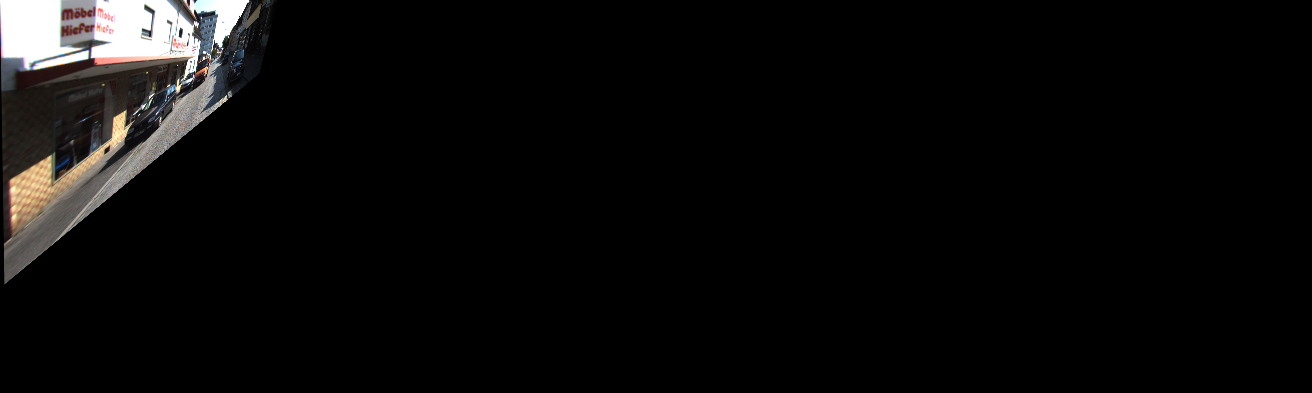
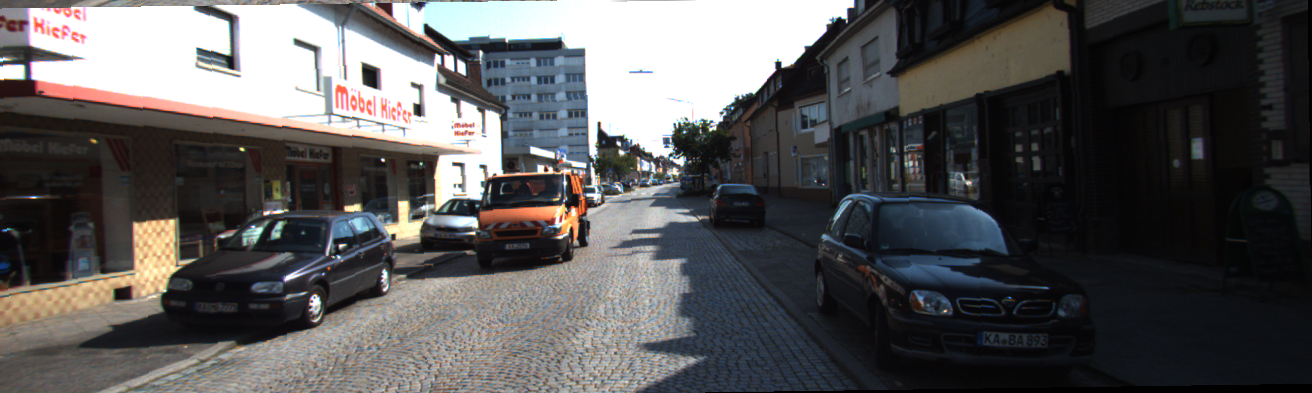
finish backward warping

diff --git a/workspace/libs/midterm.py b/workspace/libs/midterm.py
@@ -2,7 +2,9 @@ import numpy as np
 import numpy.linalg as npl
 import cv2
 import sys
+from PIL import Image
 class VVS:
+
     def __init__(self, cfg):
         self.cfg = cfg
         self.opencv = False
@@ -96,7 +98,6 @@ class VVS:
         t = - R.T @ t_tilde # R.T = npl.inv(R)
 
         return R, t
-        
 
     def estimate_Rrect(self, t):
         e1 = t / npl.norm(t)
@@ -108,28 +109,48 @@ class VVS:
         print('e1,e2,e3 shapes:', e1.shape, e2.shape, e3.shape)
         print('e1,e2,e3 :', e1, e2, e3)
         Rrect = np.array([e1, e2, e3])
+        print('det(Rrect): ', npl.det(Rrect))
         return Rrect
         
-    def rectify_image(self, R, Rrect, left_imgs, right_imgs):
-        #TODO: calculate R1, R2 from R, Rrect
-        R1 = self.cfg.R_rect_left_color
-        R2 = self.cfg.R_rect_right_color
-        #######
-        h1, w1 = left_imgs[0].shape[:2]
-        h2, w2 = right_imgs[0].shape[:2]
+    def backward_warping(self, R, K, img):
+        h, w = img.shape[:2]
+        rect_img = np.zeros((h, w, 3), dtype=np.uint8)
+        Warp = K @ npl.inv(R) @ npl.inv(K)
+        p = np.zeros(3).astype(int)
+        for i in range(h): #393
+            for j in range(w): #1312
+                p = Warp @ np.array([j, i, 1])
+                p = p.astype(int)
+                try: 
+                    # print(f'i:{i} j:{j} p[0]:{p[0]} p[1]:{p[1]}')
+                    rect_img[i, j, :] = img[p[1], p[0], :]
+                except IndexError as e:
+                    pass
+                    # print(e)
+        return rect_img
 
-        length = len(left_imgs)
-        rect_left_imgs = [None] * length
-        rect_right_imgs = [None] * length
-        center = (w1/2, h1/2)
-        rotate_matrix = cv2.getRotationMatrix2D(center=center, angle=45, scale=1)
-        print(rotate_matrix.shape)
-        print('R1', R1.shape)
- 
-        for i in range(length):
-            rect_left_imgs[i] = cv2.warpPerspective(src=left_imgs[i], M=R1, dsize=(w1, h1))
-            rect_right_imgs[i] = cv2.warpPerspective(src=right_imgs[i],M=R2,dsize=(w2, h2))
-            # rect_left_imgs[i] = R1@left_imgs[i]
-            # rect_right_imgs[i] = R2@right_imgs[i]
 
-        return rect_left_imgs, rect_right_imgs
+    def rectify_image(self, R, Rrect, K1, K2, left_img, right_img):
+        #Theory
+        # R1 = Rrect
+        # R2 = R @ Rrect
+
+        R1 = R
+        R2 = Rrect
+
+        left_rect_img = self.backward_warping(R1, K1, left_img)
+        right_rect_img = self.backward_warping(R2, K2, right_img)
+
+        # left_rect_img = scipy.misc.toimage(left_rect_img)
+        # right_rect_img = scipy.misc.toimage(right_rect_img)
+        # print(f"mapping: \n{left_map.shape}")
+
+        #         pixel = left_img[i, j]
+        #         x = np.array([i, j , 1])
+        #         x_prime = R1 @ x
+        #         x_prime = x_prime / x_prime[2]
+
+        #         print('xprimeshape ', x_prime)
+                # rotated[i, j] = 
+
+        return left_rect_img, right_rect_img

diff --git a/workspace/main.py b/workspace/main.py
@@ -50,9 +50,6 @@ class StereoMatching:
             left_feature_points_list[i] = self.vvs.detect_feature_points(left_calib_imgs[i])
             right_feature_points_list[i] = self.vvs.detect_feature_points(right_calib_imgs[i])
 
-        # self.saver.save_images(left_imgs, 'left_rectified')
-        # self.saver.save_images(right_imgs, 'right_rectified')
-
 
         # Get Correspondence
         left_correspondence_points_list = [None] * len_calib_imgs
@@ -84,9 +81,20 @@ class StereoMatching:
         print("Rrect: \n", Rrect)
 
         # Rectify image
-        # R = None
-        # Rrect = None
-        # left_imgs, right_imgs = self.vvs.rectify_image(R, Rrect, left_imgs, right_imgs)
+        len_imgs = len(left_imgs)
+        left_rect_imgs = [None] * len_imgs
+        right_rect_imgs = [None] * len_imgs
+        K1 = self.cfg.K_left_color
+        K2 = self.cfg.K_right_color
+        R = self.cfg.R_rect_left_color
+        Rrect = self.cfg.R_rect_right_color
+        for i in range(len_imgs):
+            left_rect_imgs[i], right_rect_imgs[i] = \
+                self.vvs.rectify_image(R, Rrect, K1, K2, left_imgs[i], right_imgs[i])
+        self.saver.save_images(left_rect_imgs, 'left_rectified')
+        self.saver.save_images(right_rect_imgs, 'right_rectified')
+
+       
         # Get disparity map (matching)
         # disparity_map = self.vvs.get_disparity_map(left_imgs, right_imgs)
         

diff --git a/workspace/libs/data_loader.py b/workspace/libs/data_loader.py
@@ -4,36 +4,16 @@ class DataLoader:
     def __init__(self, cfg):
         self.cfg = cfg
 
-    def sort_filenames(self, filenames):
-        #Init sorted list
-        sorted = [(None, None)] * len(filenames) 
-
-        #Extract frame number from filename
-        for i, filename in enumerate(filenames):
-            frame = filename.split('.')[0]
-            sorted[i] = (int(frame), filename)
-
-        #Sort in ascending order
-        sorted.sort()
-
-        # Return filenames in sorted order
-        for i in range(len(filenames)):
-            filenames[i] = sorted[i][1]
-
-        return filenames
 
     def load_images(self, path):
         # Get filenames
         filenames = os.listdir(path)
 
-        # Sort filenames
-        filenames = self.sort_filenames(filenames)
-
         # Init image list
         imgs = [None] * len(filenames)
          
         # Read images into image list
-        for i, filename in enumerate(filenames):
+        for i, filename in enumerate(sorted(filenames)):
             imgs[i] = cv2.imread(f"{path}/{filename}")
             print(f"{path}/{filename}")
 

diff --git a/workspace/config.py b/workspace/config.py
@@ -10,8 +10,11 @@ class Config:
                             [0.000000e+00, 0.000000e+00, 1.000000e+00]])
     dist_right_color = np.array([-3.639558e-01, 1.788651e-01, 6.029694e-04, -3.922424e-04, -5.382460e-02])
 
-    left_images = 'data/target_2011_09_26_drive_0048/unsync_unrect/image_02/data'
-    right_images = 'data/target_2011_09_26_drive_0048/unsync_unrect/image_03/data'
+    #left_images = 'data/target_2011_09_26_drive_0048/unsync_unrect/image_02/data'
+    #right_images = 'data/target_2011_09_26_drive_0048/unsync_unrect/image_03/data'
+    left_images = 'data/devel/target_2011_09_26_drive_0048/unsync_unrect/image_02/data'
+    right_images = 'data/devel/target_2011_09_26_drive_0048/unsync_unrect/image_03/data'
+
 
     left_calib_images = 'data/calib_2011_09_26_drive_0119/image_02/data'
     right_calib_images = 'data/calib_2011_09_26_drive_0119/image_03/data'
